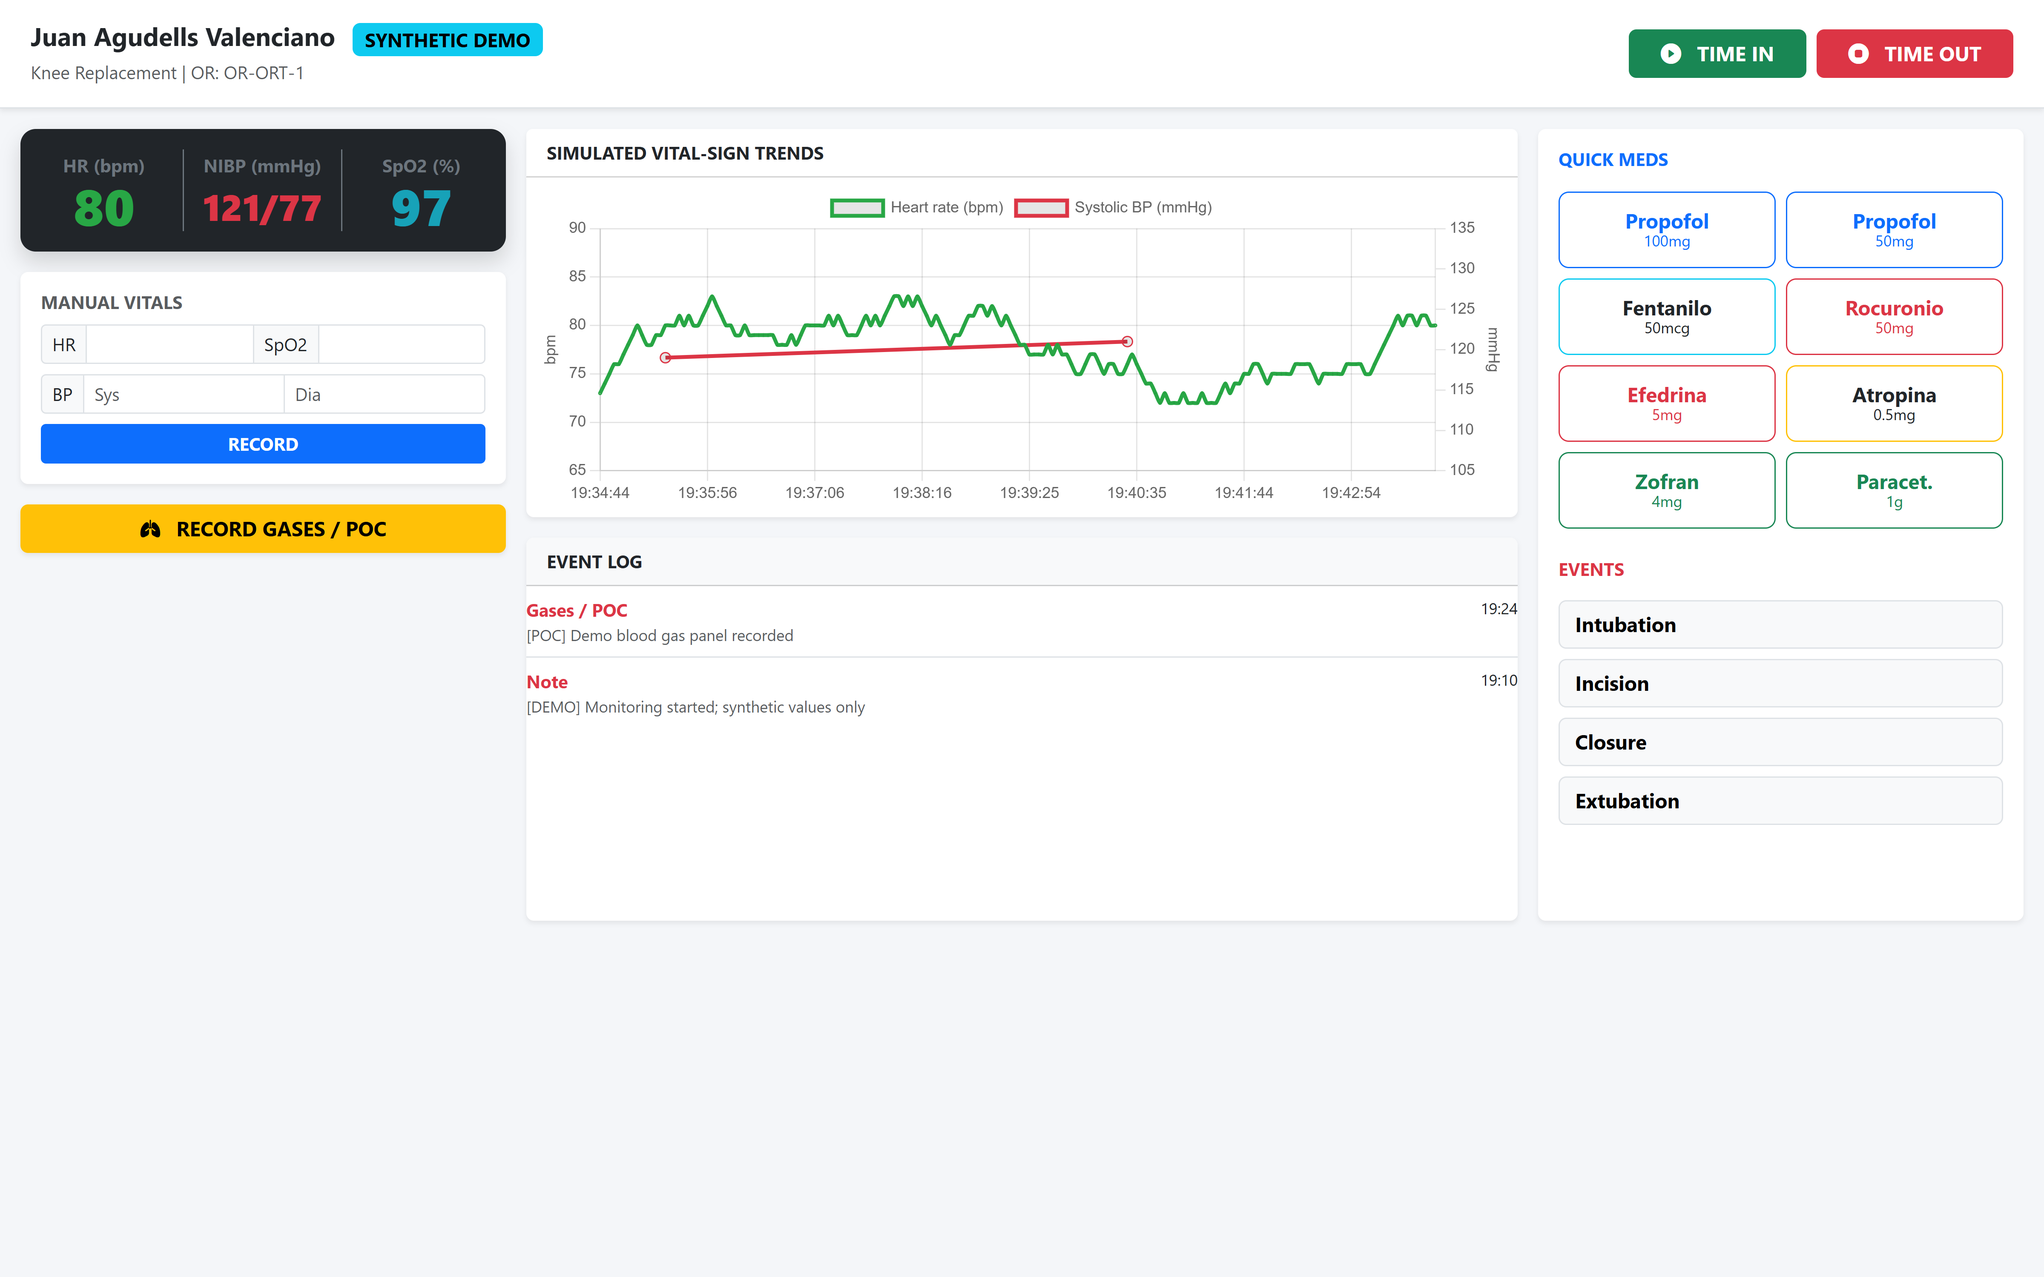
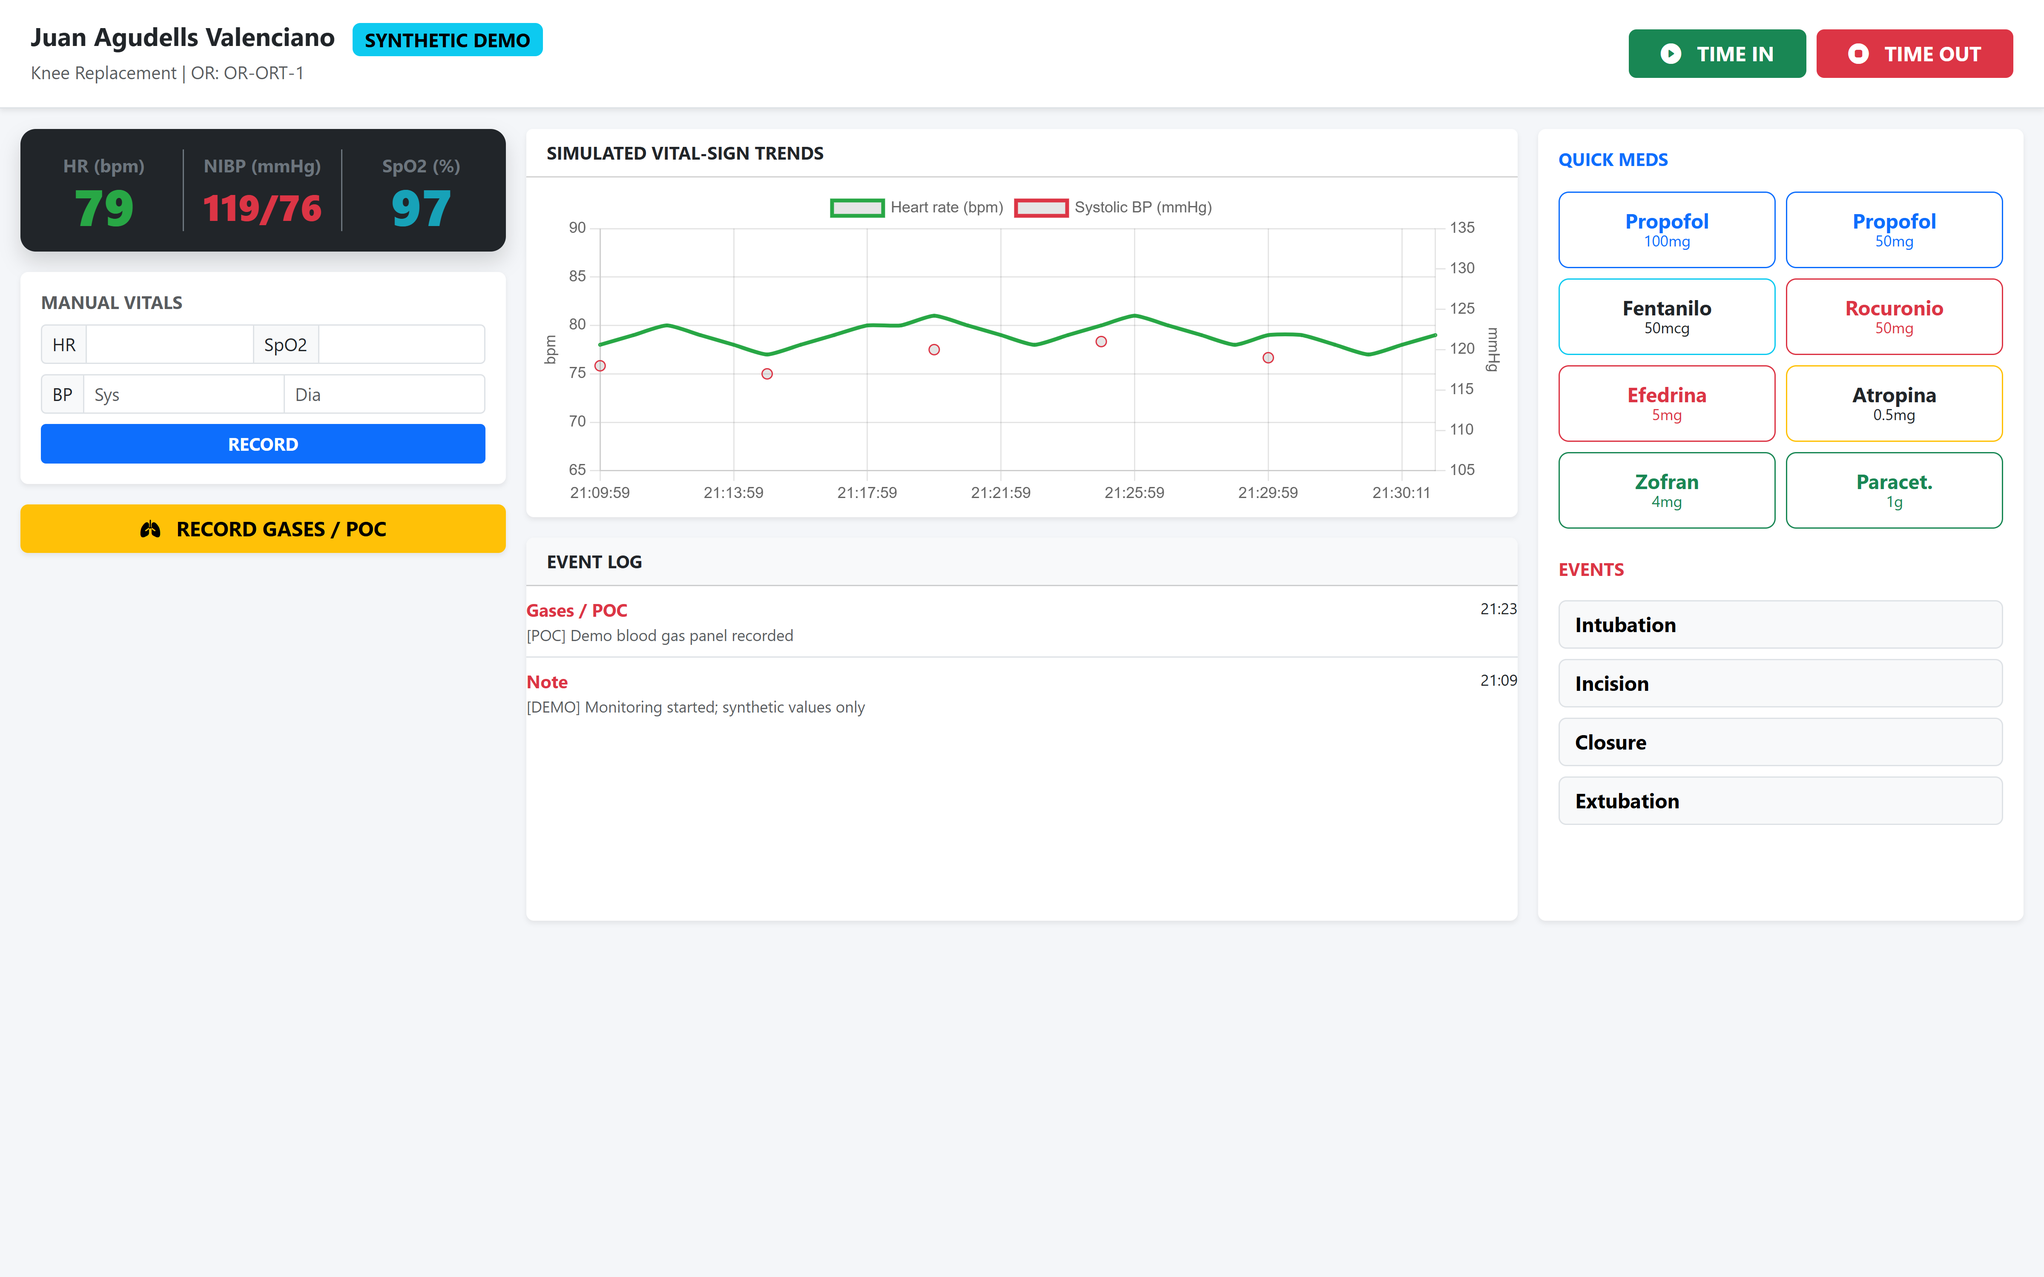
Validate plausible synthetic cases before LinkedIn captures

diff --git a/preview_tools/validate_screenshot_cases.php b/preview_tools/validate_screenshot_cases.php
@@ -1,0 +1,133 @@
+<?php
+declare(strict_types=1);
+
+// Fail closed before taking public screenshots. Checks internal consistency of
+// synthetic fixtures, not clinical validity or patient-specific suitability.
+if (PHP_SAPI !== 'cli') {
+    http_response_code(404);
+    exit;
+}
+require_once __DIR__ . '/../config/config.php';
+if (getenv('SURGERY_PREVIEW_FIXTURES') !== '1' || DB_TYPE !== 'local'
+    || DB_NAME !== 'imtm2025_grupd' || DB_HOST_LOCAL !== '127.0.0.1:3308') {
+    fwrite(STDERR, "Refusing to validate a database outside the isolated preview.\n");
+    exit(1);
+}
+
+function demand(bool $condition, string $message): void {
+    if (!$condition) {
+        throw new RuntimeException($message);
+    }
+}
+function seconds_between(string $a, string $b): int {
+    return (new DateTimeImmutable($b))->getTimestamp() - (new DateTimeImmutable($a))->getTimestamp();
+}
+
+try {
+    $pdo = getDBConnection();
+    $getCase = $pdo->prepare('SELECT * FROM SURGICAL_PROCEDURE WHERE surgical_procedure_id = ?');
+    $cases = [];
+    foreach ([119, 173, 900001, 900002, 900003] as $id) {
+        $getCase->execute([$id]);
+        $cases[$id] = $getCase->fetch(PDO::FETCH_ASSOC);
+        demand((bool)$cases[$id], "Missing screenshot case $id");
+    }
+
+    $archived = $cases[173];
+    $nurse = $cases[900002];
+    $live = $cases[900001];
+    $pending = $cases[900003];
+    demand($archived['status'] === 'Completed' && $archived['procedure_id'] == 7,
+        'Archived knee case has the wrong status or procedure.');
+    demand($nurse['status'] === 'In Progress' && $nurse['procedure_id'] == 7
+        && $live['status'] === 'In Progress' && $live['procedure_id'] == 7,
+        'Live knee cases have the wrong status or procedure.');
+    demand($archived['patient_id'] === $nurse['patient_id']
+        && $archived['patient_id'] === $live['patient_id'],
+        'Linked demo patient and procedure no longer agree.');
+    foreach ([$archived, $nurse, $live] as $case) {
+        demand(seconds_between($case['time_in_room'], $case['time_intubation']) > 0
+            && seconds_between($case['time_intubation'], $case['time_incision']) > 0,
+            'Room entry, induction, and incision are out of order.');
+    }
+    demand(seconds_between($archived['time_incision'], $archived['time_closure']) >= 3600
+        && seconds_between($archived['time_incision'], $archived['time_closure']) <= 10800,
+        'Archived knee-operation duration is outside the documented example range.');
+    demand(seconds_between($archived['time_closure'], $archived['time_extubation']) > 0
+        && seconds_between($archived['time_extubation'], $archived['time_out_room']) > 0,
+        'Archived closure, extubation, and room exit are out of order.');
+    demand((int)$archived['blood_loss_ml'] === 200
+        && !str_contains((string)$archived['anesthesiology_report'], '0.45 mg'),
+        'Archived report still contains a conflicting demo value.');
+    foreach ([$nurse, $live] as $case) {
+        demand($case['time_closure'] === null && $case['time_out_room'] === null,
+            'A live case is already closed in the database.');
+    }
+    $checks = json_decode((string)$nurse['safety_checklist_data'], true, 512, JSON_THROW_ON_ERROR);
+    demand(($checks['patient'] ?? false) && ($checks['anesthesia'] ?? false)
+        && ($checks['timeout'] ?? false) && !($checks['counts'] ?? true)
+        && !($checks['specimen'] ?? true),
+        'Nurse safety-checklist phases contradict the live case.');
+
+    $medication = $pdo->query('SELECT drug_ID, prescribed_datetime, dosage
+        FROM SURGICAL_PROCEDURE_MEDICATIONS WHERE surgical_procedure_id = 900002
+        ORDER BY prescribed_datetime')->fetchAll(PDO::FETCH_ASSOC);
+    demand(count($medication) === 2, 'The live nurse case needs exactly two demo medication records.');
+    foreach ($medication as $entry) {
+        demand(seconds_between($nurse['time_in_room'], $entry['prescribed_datetime']) >= 0
+            && seconds_between($entry['prescribed_datetime'], $nurse['time_incision']) > 0,
+            'Demo medication time falls outside the intended phase.');
+    }
+    demand($medication[0]['drug_ID'] === 'D0026' && $medication[0]['dosage'] === '100mg'
+        && $medication[1]['drug_ID'] === 'D0034' && $medication[1]['dosage'] === '50mcg',
+        'Medication log no longer matches the displayed synthetic scenario.');
+
+    $vitals = $pdo->query('SELECT card_freq, sys, dias, oxygen_saturation, timestamp
+        FROM SURGERY_MONITORING WHERE surgical_procedure_id = 900002
+        ORDER BY timestamp')->fetchAll(PDO::FETCH_ASSOC);
+    demand(count($vitals) === 9, 'Nurse monitoring history is incomplete.');
+    $bpTimes = [];
+    foreach ($vitals as $row) {
+        demand((int)$row['card_freq'] >= 72 && (int)$row['card_freq'] <= 86
+            && (int)$row['oxygen_saturation'] >= 97
+            && (int)$row['oxygen_saturation'] <= 99,
+            'Displayed HR or SpO2 is outside the synthetic example.');
+        if ($row['sys'] !== null || $row['dias'] !== null) {
+            demand((int)$row['sys'] >= 112 && (int)$row['sys'] <= 128
+                && (int)$row['dias'] >= 70 && (int)$row['dias'] <= 82,
+                'Displayed BP is outside the synthetic example.');
+            $bpTimes[] = $row['timestamp'];
+        }
+    }
+    demand(count($bpTimes) === 5, 'Nurse BP history should contain five intermittent readings.');
+    for ($i = 1; $i < count($bpTimes); $i++) {
+        demand(seconds_between($bpTimes[$i - 1], $bpTimes[$i]) === 300,
+            'Nurse BP readings are not five minutes apart.');
+    }
+    demand((int)$pdo->query('SELECT COALESCE(SUM(amount_used),0)
+        FROM SURGICAL_MATERIAL_USAGE WHERE surgical_procedure_id = 900002')->fetchColumn() === 12,
+        'Material usage does not match the inventory screenshot.');
+
+    demand($pending['status'] === 'Pending' && $pending['procedure_id'] == 30
+        && strtotime($pending['date_time']) > time() && $pending['time_in_room'] === null
+        && $pending['time_incision'] === null && $pending['time_closure'] === null,
+        'Elective scheduler case is no longer a future, unstarted case.');
+    $historical = $cases[119];
+    demand($historical['status'] === 'Completed' && $historical['procedure_id'] == 1
+        && seconds_between($historical['time_incision'], $historical['time_closure']) > 0
+        && seconds_between($historical['time_closure'], $historical['time_out_room']) > 0,
+        'Patient portal history has an inconsistent completed case.');
+    $consent = $pdo->prepare('SELECT consent_date FROM PATIENT_CONSENTS WHERE patient_id = ?
+        AND episode_id = ? AND procedure_id = ? AND signed = 1 AND deleted_at IS NULL');
+    $consent->execute([$historical['patient_id'], $historical['episode_id'], $historical['procedure_id']]);
+    $consentDates = $consent->fetchAll(PDO::FETCH_COLUMN);
+    demand(count($consentDates) > 0, 'Completed patient case has no signed consent.');
+    foreach ($consentDates as $date) {
+        demand($date < substr($historical['date_time'], 0, 10),
+            'Demo consent date must precede the operation day.');
+    }
+    echo "PASS: synthetic screenshot cases, timelines, monitoring, medications, consent, and inventory agree.\n";
+} catch (Throwable $e) {
+    fwrite(STDERR, "Screenshot validation failed: " . $e->getMessage() . "\n");
+    exit(1);
+}

diff --git a/preview_tools/seed_screenshot_cases.php b/preview_tools/seed_screenshot_cases.php
@@ -41,6 +41,7 @@ try {
         time_extubation = '2025-12-11 12:25:00', time_out_room = '2025-12-11 12:35:00',
         safety_checklist_data = '{\"patient\":true,\"anesthesia\":true,\"timeout\":true,\"counts\":true,\"specimen\":true}',
         blood_loss_ml = 200, post_op_diagnosis = 'Osteoarthritis of knee',
+        anesthesiology_report = 'Synthetic demonstration: general anesthesia with a regional nerve block. Medication administration is recorded in the procedure medication log. No patient-specific dosing guidance is implied.',
         surgical_report = 'FINDINGS: Degenerative changes of the knee joint.\\n\\nTECHNIQUE: Femoral and tibial surfaces prepared; trial components assessed for alignment and stability; definitive components implanted.\\n\\nSPECIMENS: None.\\n\\nESTIMATED BLOOD LOSS: 200 mL.\\n\\nCOMPLICATIONS: None documented.',
         post_op_instructions = 'Routine postoperative monitoring, wound review and mobilisation per treating team.'
         WHERE surgical_procedure_id = 173");
@@ -51,6 +52,12 @@ try {
     // The imported demonstration rows used tidal_CO2 to hold pulse oximetry.
     $pdo->exec("UPDATE SURGERY_MONITORING SET oxygen_saturation = ROUND(tidal_CO2), tidal_CO2 = NULL
         WHERE surgical_procedure_id = 173 AND oxygen_saturation IS NULL AND tidal_CO2 BETWEEN 90 AND 100");
+
+    // The imported consent stores only a date, so set it to the preceding day
+    // for the public demo rather than imply an unknown same-day signing time.
+    $pdo->exec("UPDATE PATIENT_CONSENTS SET consent_date = '2025-11-30'
+        WHERE patient_id = 'LGP_0001' AND episode_id = 118 AND procedure_id = 1
+          AND signed = 1 AND deleted_at IS NULL");
 
     $pdo->exec("INSERT IGNORE INTO SURGICAL_PROCEDURE
         (surgical_procedure_id, procedure_id, episode_id, date_time, status, notes,

diff --git a/preview_tools/capture_linkedin.py b/preview_tools/capture_linkedin.py
@@ -12,7 +12,7 @@ sys.path.insert(0, str(RUNTIME / "python-packages"))
 from playwright.sync_api import sync_playwright
 
 parser = argparse.ArgumentParser(description="Capture the six demo roles for LinkedIn.")
-parser.add_argument("--scale", type=float, default=1.5, help="Pixel scale; 3 gives 4800x3000 PNGs.")
+parser.add_argument("--scale", type=float, default=3, help="Pixel scale; default 3 gives 4800x3000 PNGs.")
 parser.add_argument("--output", default="linkedin_screenshots", help="Output folder inside the clone.")
 args = parser.parse_args()
 if not 1 <= args.scale <= 4:
@@ -27,6 +27,9 @@ fixture_env = os.environ.copy()
 fixture_env["SURGERY_PREVIEW_FIXTURES"] = "1"
 subprocess.run([str(RUNTIME / "php" / "php.exe"),
                 str(ROOT / "preview_tools" / "seed_screenshot_cases.php")],
+               cwd=ROOT, env=fixture_env, check=True)
+subprocess.run([str(RUNTIME / "php" / "php.exe"),
+                str(ROOT / "preview_tools" / "validate_screenshot_cases.php")],
                cwd=ROOT, env=fixture_env, check=True)
 
 CASES = [
@@ -84,6 +87,8 @@ with sync_playwright() as p:
         page.wait_for_timeout(1200)
         if action == "anesthesia":
             page.wait_for_function("document.querySelector('#disp_hr')?.textContent.trim() !== '--'", timeout=5000)
+            # NIBP is sampled intermittently; joining its dots suggests continuous measurement.
+            page.evaluate("myChart.data.datasets[1].showLine = false; myChart.update()")
             data = page.evaluate("""async () => (await fetch('/views/anesthesiologist/api_anesthesia.php?spid=900001&action=get_data')).json()""")
             if not data.get("success") or len(data.get("chart_data", [])) < 10:
                 raise RuntimeError("Synthetic anesthesia chart is not populated")

diff --git a/preview_tools/README.md b/preview_tools/README.md
@@ -14,6 +14,7 @@ This directory reproduces SURGERY-APP locally with the repository's 2025 demo SQ
     │       ├── import_demo_db.py
     │       ├── demo_anesthesia.php
     │       ├── seed_screenshot_cases.php
+    │       ├── validate_screenshot_cases.php
     │       ├── start_demo.ps1
     │       ├── stop_demo.ps1
     │       └── capture_linkedin.py
@@ -69,7 +70,7 @@ Install Playwright into the sibling runtime, then start the app:
     python -m pip install --target (Join-Path $runtime 'python-packages') playwright==1.56.0
     .\preview_tools\start_demo.ps1
 
-The startup script starts MariaDB and PHP if needed, seeds 21 recent synthetic HR/SpO2 samples, intermittent BP readings, and two log entries. It then runs `seed_screenshot_cases.php` against the isolated local database: the nurse case shows a knee replacement in progress, the scheduler gets a fictional pending case, the surgeon's imported demo case (173) gets a coherent operative timeline, and current-month material usage and stock dates are made consistent. A worker adds HR/SpO2 samples every three seconds and a new NIBP reading approximately every five minutes. Calling the startup script again while the worker runs does not reset the cases. After stopping the demo, starting again resets the synthetic fixtures. The original SQL dump is never edited.
+The startup script starts MariaDB and PHP if needed, seeds 21 recent synthetic HR/SpO2 samples, intermittent BP readings, and two log entries. It then runs `seed_screenshot_cases.php` against the isolated local database: the nurse case shows a knee replacement in progress, the scheduler gets a fictional pending case, the surgeon's imported demo case (173) gets a coherent operative timeline and a medication report consistent with its log, and the completed patient example gets a prior-day consent date. Current-month material usage and stock dates are made consistent. A worker adds HR/SpO2 samples every three seconds and a new NIBP reading approximately every five minutes. Calling the startup script again while the worker runs does not reset the cases. After stopping the demo, starting again resets the synthetic fixtures. The original SQL dump is never edited.
 
 ## Live anesthesiologist demonstration
 
@@ -90,7 +91,7 @@ The demo setup adds an `oxygen_saturation` column to `SURGERY_MONITORING`. The o
 
 Before publishing or changing **any** screenshot, check each visible clinical value and code against an authoritative source suited to that field. Check the full story as well: patient and procedure match; consent and safety checks precede incision; room entry precedes incision, closure and exit; procedure duration is credible; medication times fall in the correct phase; units and measurement frequencies are right; stock, expiry alerts and usage totals agree; and dates and statuses do not contradict one another. Inspect the rendered PNG after capture. Do not substitute values from a real hospital patient. If a number has no defensible basis, omit it or label it illustrative; never imply that these fixtures are clinically validated.
 
-The current examples were checked against the [WHO Surgical Safety Checklist phases](https://www.who.int/news/item/24-06-2008-new-checklist-to-help-make-surgery-safer), [NHS knee-replacement duration and procedure overview](https://www.nhs.uk/tests-and-treatments/knee-replacement/how-its-done/), [MedlinePlus adult vital-sign ranges](https://medlineplus.gov/ency/article/002341.htm), [FDA pulse-oximetry basics](https://www.fda.gov/consumers/consumer-updates/pulse-oximeter-basics), and [HL7's SNOMED CT knee/hip concept list](https://www.hl7.org/fhir/uv/ips/STU1.1/ValueSet-problems-snomed-ct-ips-free-set.html). These references support plausibility and terminology, not diagnosis, drug dosing, or patient-specific clinical decisions.
+The current examples were checked against the [WHO Surgical Safety Checklist phases](https://www.who.int/docs/default-source/patient-safety/9789241598590-eng-checklist.pdf), [NHS knee-replacement duration and procedure overview](https://www.nhs.uk/tests-and-treatments/knee-replacement/how-its-done/), [MedlinePlus adult vital-sign ranges](https://medlineplus.gov/ency/article/002341.htm), [FDA pulse-oximetry basics](https://www.fda.gov/consumers/consumer-updates/pulse-oximeter-basics), [Canadian Anesthesiologists' Society monitoring guidance](https://www.cas.ca/CASAssets/Documents/Practice-Resources/Guidelines/CAS_Guidelines_Anesthesia_2026.pdf), and [HL7's SNOMED CT knee/hip concept list](https://www.hl7.org/fhir/uv/ips/STU1.1/ValueSet-problems-snomed-ct-ips-free-set.html). These references support plausibility and terminology, not diagnosis, drug dosing, or patient-specific clinical decisions.
 
 The scheduler's fictional carpal-tunnel case shows a **45-minute room slot**, including preparation and turnover in this demo; it is not a claim that the operation itself lasts 45 minutes. The [NHS describes the operation itself as around 20 minutes](https://www.nhs.uk/conditions/carpal-tunnel-syndrome/).
 
@@ -99,10 +100,11 @@ The medication entries shown in the nurse case are fictional entries adapted fro
 ## Screenshot capture
 
     python .\preview_tools\capture_linkedin.py
-    python .\preview_tools\capture_linkedin.py --scale 3 --output linkedin_screenshots_3x
+    python .\preview_tools\capture_linkedin.py --scale 1.5 --output linkedin_screenshots_small
 
-The first command saves 2400 x 1500 PNGs in linkedin_screenshots. The second renders 4800 x 3000 PNGs in a separate folder. Rendering again at higher pixel density creates more detail than enlarging an existing PNG.
-The capture script refreshes the fictional nurse, scheduler, and inventory fixtures immediately before rendering. For a fresh anesthesia timeline, stop and restart the demo before the capture command.
+The first command saves reviewed 4800 x 3000 PNGs in linkedin_screenshots. The second renders smaller 2400 x 1500 PNGs in a separate folder. Rendering at higher pixel density creates more detail than enlarging an existing PNG.
+The capture script refreshes the fictional nurse, scheduler, and inventory fixtures immediately before rendering, then runs `validate_screenshot_cases.php`. Capture stops if the synthetic case fails checks for patient/procedure links, operative milestones and duration, checklist phase, medication timing, intermittent blood-pressure history, consent preceding the operation day, future scheduling, or inventory use. The browser checks visible codes, vital ranges, statuses, and inventory alerts before saving each image. These checks enforce the documented example's internal consistency; they do not establish clinical validity or guarantee that every untested field is realistic. Inspect every PNG before publishing. For a fresh anesthesia timeline, stop and restart the demo before the capture command.
+For the anesthesia PNG only, the capture script shows NIBP as separate points because the underlying readings are intermittent; it leaves the application source unchanged. Restart immediately before capture to avoid a gap between the 20-minute seeded history and the live stream.
 
 | PNG | View |
 | --- | --- |
